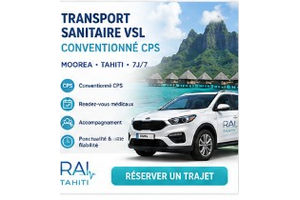
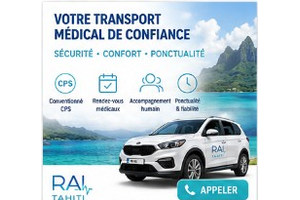
Renomme les bannières RAI TAHITI selon leurs dimensions réelles et régénère les exports IAB.
Les visuels découpés dans separees/ portent désormais leurs pixels exacts ; le ruban pied de page utilise le crop inline dédié.

diff --git a/scripts/extract-raitahiti-composite-banners.py b/scripts/extract-raitahiti-composite-banners.py
@@ -1,43 +1,54 @@
 #!/usr/bin/env python3
-"""Installe les bannières RAI TAHITI fournies (assets/) — copie directe, redimension proportionnel uniquement."""
+"""Bannières RAI TAHITI : renomme separees/ selon dimensions réelles, export IAB proportionnel."""
 
 from __future__ import annotations
 
-import shutil
 from pathlib import Path
 
 from PIL import Image
 
 ROOT = Path(__file__).resolve().parents[1]
-ASSETS = Path(
-    "/Users/patricejourdan/.cursor/projects/Users-patricejourdan-Desktop-moorea-hub/assets"
-)
 OUT = ROOT / "public/images/ads/rai-tahiti"
 SEP = OUT / "separees"
 BG = (255, 255, 255)
 
-# prefixe fichier assets → nom separees
-ASSET_NAMES: dict[str, str] = {
-    "01": "01-leaderboard-728x90.png",
-    "02": "02-inline-468x60.png",
-    "03": "03-mobile-320x50.png",
-    "04": "04-medium-rectangle-300x250.png",
-    "05": "05-large-rectangle-336x280.png",
-    "06-card": "06-card-square.png",
-    "06-half": "06-half-page-300x600.png",
-    "07": "07-skyscraper-160x600.png",
-    "08": "08-facebook-1200x628.png",
-    "10": "10-pinterest-1000x1500.png",
+# clé de recherche → nom canonique (sans dimensions)
+SLOT_NAMES: dict[str, str] = {
+    "01": "01-leaderboard",
+    "02": "02-inline",
+    "03": "03-mobile",
+    "04": "04-medium-rectangle",
+    "05": "05-large-rectangle",
+    "06-card": "06-card-square",
+    "06-half": "06-half-page",
+    "07": "07-skyscraper",
+    "08": "08-facebook",
+    "09": "09-instagram",
+    "10": "10-pinterest",
 }
 
 
-def find_asset(prefix: str) -> Path | None:
-    matches = sorted(ASSETS.glob(f"rai-tahiti-{prefix}-*.png"))
+def find_separee(key: str) -> Path | None:
+    name = SLOT_NAMES[key]
+    matches = sorted(SEP.glob(f"rai-tahiti-{name}-*.png"))
+    if matches:
+        return matches[0]
+    matches = sorted(SEP.glob(f"rai-tahiti-{key}-*.png"))
     return matches[0] if matches else None
 
 
+def rename_with_actual_size(path: Path, canonical: str) -> Path:
+    img = Image.open(path)
+    w, h = img.size
+    target = SEP / f"rai-tahiti-{canonical}-{w}x{h}.png"
+    if path.resolve() != target.resolve():
+        if target.exists() and target.resolve() != path.resolve():
+            target.unlink()
+        path.rename(target)
+    return target
+
+
 def fit_width_pad(src: Image.Image, w: int, h: int) -> Image.Image:
-    """Largeur cible, hauteur proportionnelle, centré sur fond blanc (jamais d'étirement)."""
     sw, sh = src.size
     nh = max(1, int(sh * w / sw))
     resized = src.resize((w, nh), Image.Resampling.LANCZOS)
@@ -56,55 +67,51 @@ def fit_contain(src: Image.Image, w: int, h: int) -> Image.Image:
     return canvas
 
 
-def ribbon_from_leaderboard(lb: Image.Image, w: int = 468, h: int = 60) -> Image.Image:
-    """Ruban pied de page : zone droite du leaderboard (paysage + bouton), sans étirer."""
-    sw, sh = lb.size
-    strip = lb.crop((int(sw * 0.52), 0, sw, sh))
-    sw2, sh2 = strip.size
-    scale = min(w / sw2, h / sh2)
-    nw, nh = max(1, int(sw2 * scale)), max(1, int(sh2 * scale))
-    resized = strip.resize((nw, nh), Image.Resampling.LANCZOS)
-    canvas = Image.new("RGB", (w, h), BG)
-    canvas.paste(resized, ((w - nw) // 2, (h - nh) // 2))
-    return canvas
-
-
 def main() -> None:
     SEP.mkdir(parents=True, exist_ok=True)
     loaded: dict[str, Image.Image] = {}
 
-    for key, sep_name in ASSET_NAMES.items():
-        src_path = find_asset(key)
+    for key, canonical in SLOT_NAMES.items():
+        src_path = find_separee(key)
         if not src_path:
-            print(f"  SKIP {key} — fichier assets introuvable")
+            print(f"  SKIP {key} — introuvable dans separees/")
             continue
-        img = Image.open(src_path).convert("RGB")
+        renamed = rename_with_actual_size(src_path, canonical)
+        img = Image.open(renamed).convert("RGB")
         loaded[key] = img
-        dest = SEP / f"rai-tahiti-{sep_name}"
-        shutil.copy2(src_path, dest)
-        print(f"  separees/rai-tahiti-{sep_name}  ← {src_path.name} ({img.size[0]}×{img.size[1]})")
+        print(f"  {renamed.name}  ({img.size[0]}×{img.size[1]})")
 
     if "01" not in loaded:
-        raise SystemExit("Bannière 01-leaderboard introuvable dans assets/")
+        raise SystemExit("Bannière 01-leaderboard introuvable dans separees/")
 
     lb = loaded["01"]
+    inline = loaded.get("02")
 
     exports: list[tuple[str, Image.Image]] = [
         ("rai-tahiti-ad-leaderboard-728x90.png", fit_width_pad(lb, 728, 90)),
-        ("rai-tahiti-ad-ribbon-468x60.png", ribbon_from_leaderboard(lb, 468, 60)),
     ]
+
+    if inline:
+        exports.append(("rai-tahiti-ad-ribbon-468x60.png", fit_contain(inline, 468, 60)))
+    else:
+        sw, sh = lb.size
+        strip = lb.crop((int(sw * 0.52), 0, sw, sh))
+        exports.append(("rai-tahiti-ad-ribbon-468x60.png", fit_contain(strip, 468, 60)))
 
     if "04" in loaded:
         exports.append(("rai-tahiti-ad-rectangle-300x250.png", fit_contain(loaded["04"], 300, 250)))
-        exports.append(("rai-tahiti-ad-card-300x200.png", fit_contain(loaded["04"], 300, 200)))
     if "05" in loaded:
         exports.append(
             ("rai-tahiti-ad-rectangle-compact-300x250.png", fit_contain(loaded["05"], 300, 250))
         )
+    if "06-card" in loaded:
+        exports.append(("rai-tahiti-ad-card-300x200.png", fit_contain(loaded["06-card"], 300, 200)))
+    elif "04" in loaded:
+        exports.append(("rai-tahiti-ad-card-300x200.png", fit_contain(loaded["04"], 300, 200)))
 
     for name, img in exports:
         img.save(OUT / name, optimize=True, quality=95)
-        print(f"  {name}  {img.size[0]}×{img.size[1]}")
+        print(f"  → {name}  {img.size[0]}×{img.size[1]}")
 
     print("OK")
 